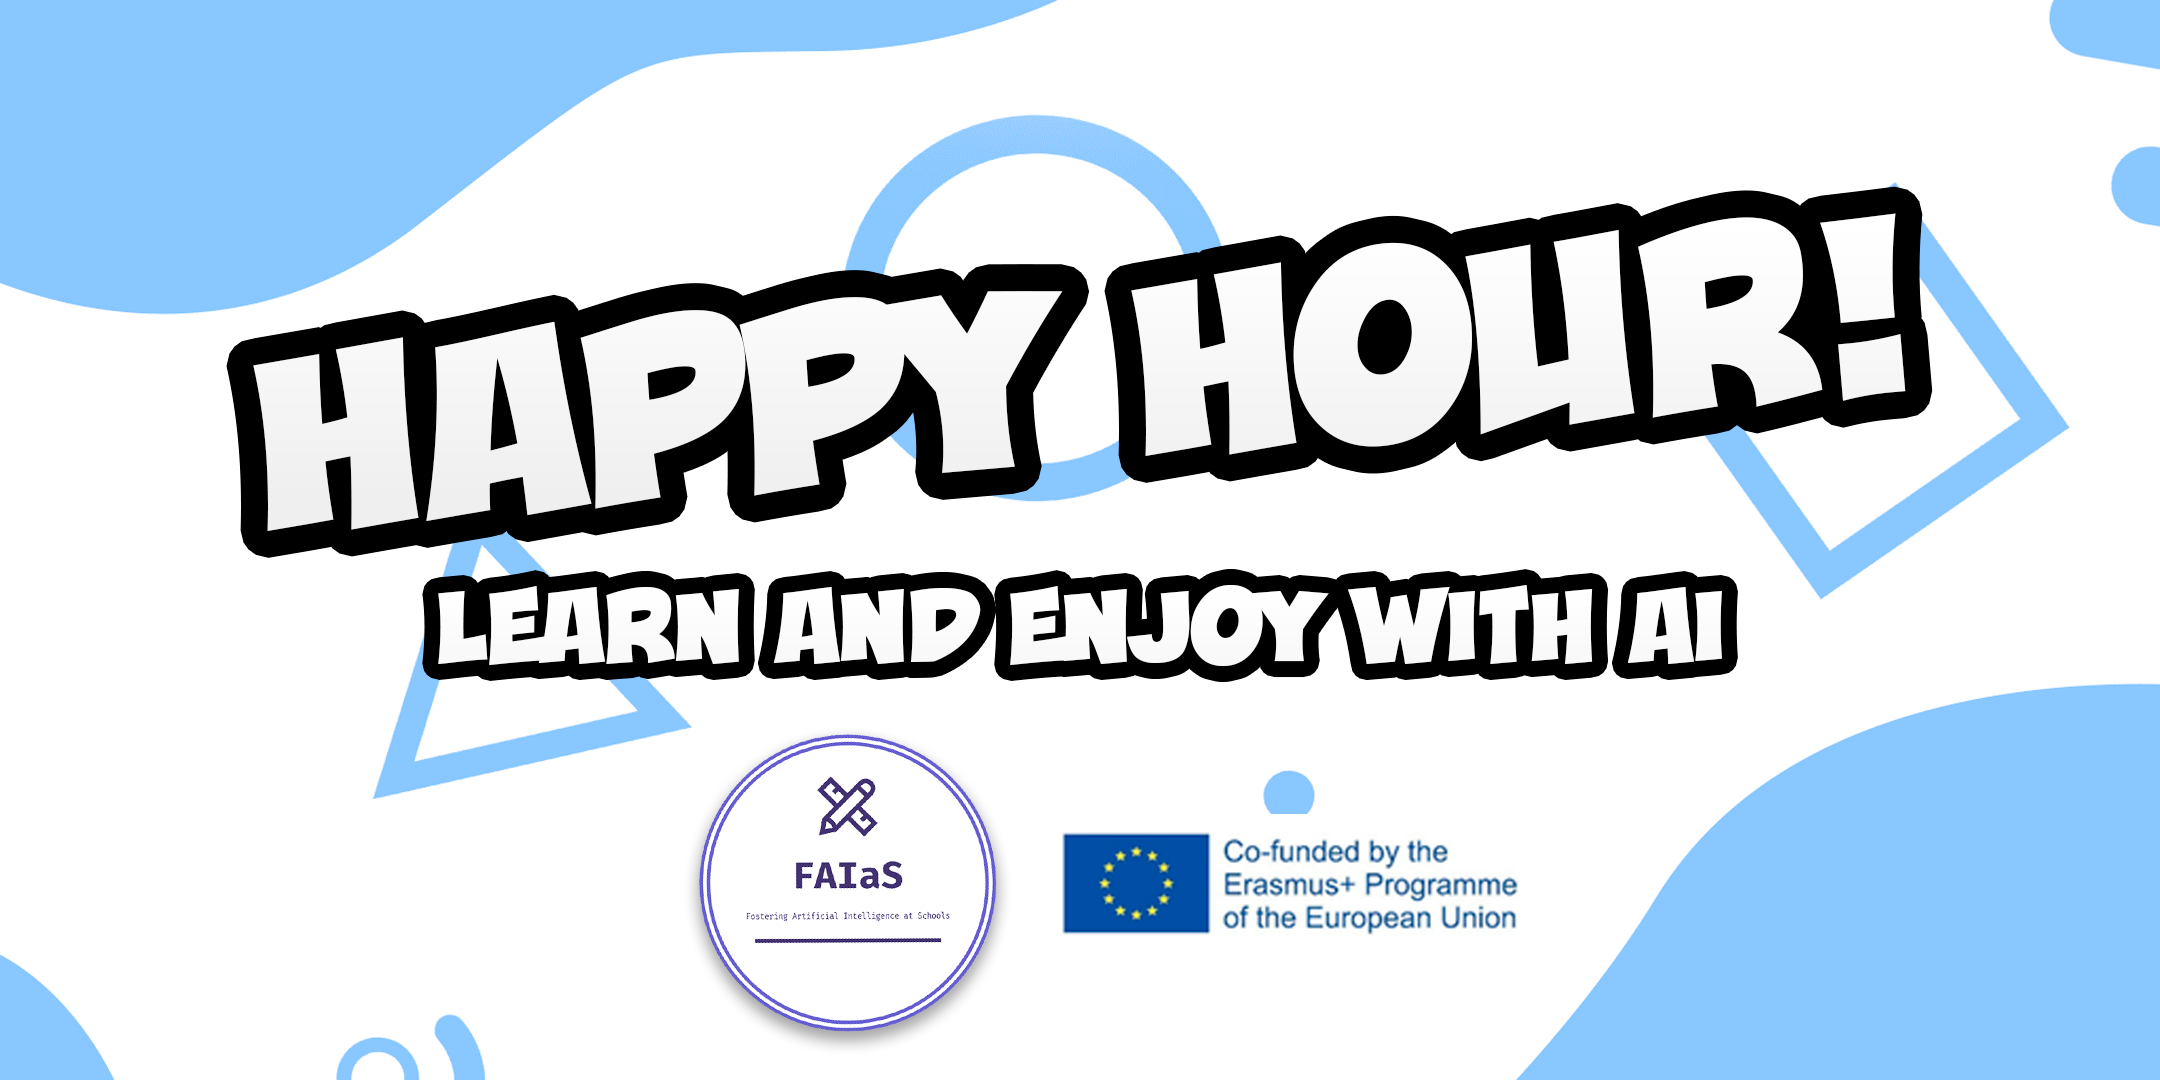
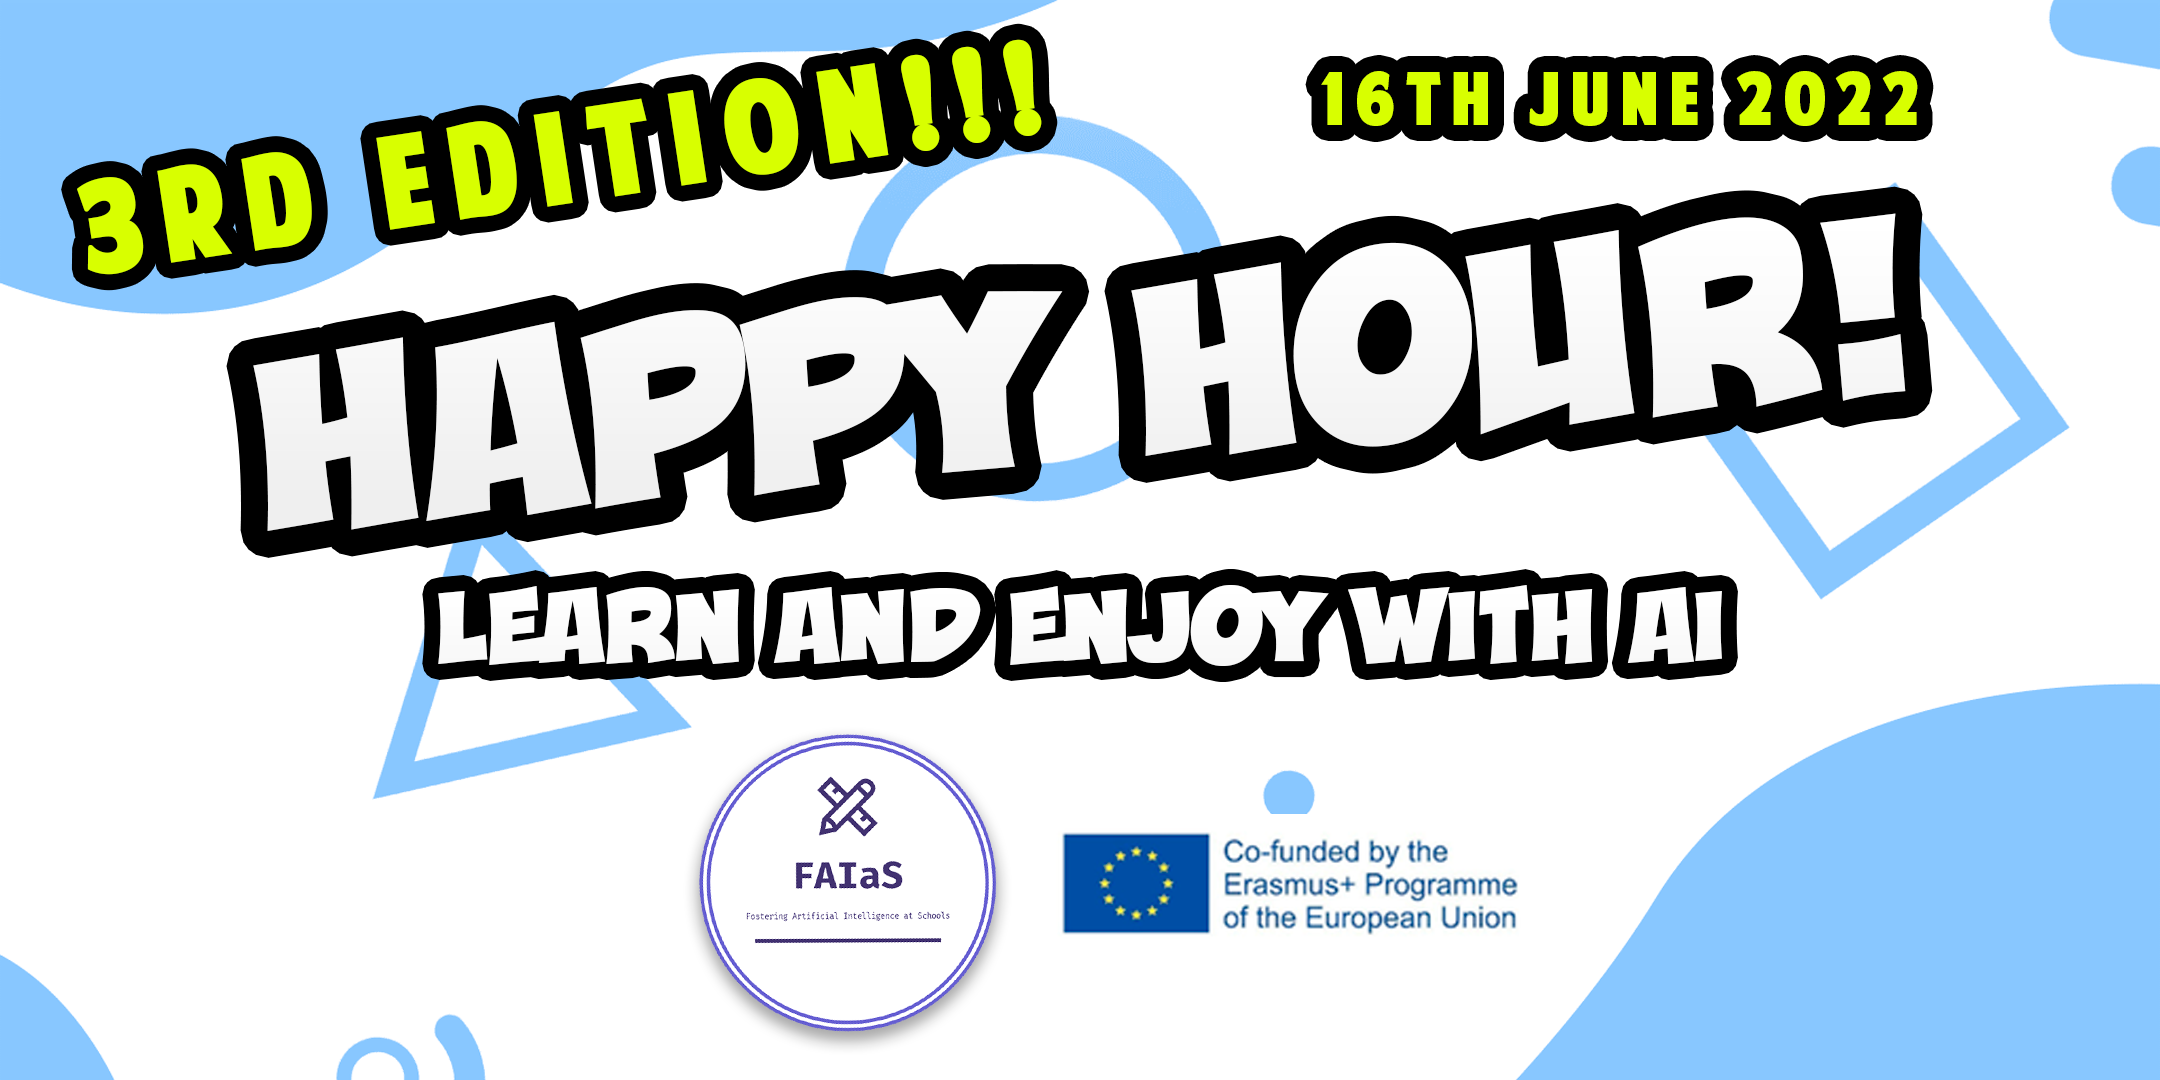
happyhour3

Changed region(s): [[0.031, 0.0, 0.4963, 0.275], [0.5894, 0.0306, 0.8995, 0.1528]]

diff --git a/docs/post/happy_hour_3_announce/index.html b/docs/post/happy_hour_3_announce/index.html
@@ -323,29 +323,29 @@
 
   <div class="article-container">
 
-<h2 id="happy-hour-2-">HAPPY HOUR #2!</h2>
-<p>We are delighted to announce that the second Happy Hour will take place at the end of February!</p>
+<h2 id="happy-hour-3-">HAPPY HOUR #3!</h2>
 <br>
-<p>The Happy Hour is a live event where you will have the opportunity to interact in a dynamic and fun way with the different speakers and guests. Various topics on Artificial Intelligence and Machine Learning are covered in short sections of about 5 minutes each. </p>
-<p>You can watch our first Happy Hour <a href="https://www.youtube.com/watch?v=dNqTIVoByWM" target='_blank'><strong>here!</strong></a></p>
+<p>This 16th of June, will take take place the third edition of our streaming program &#39;Happy Hour&#39;. After an intense week in our Learning Teaching Training Activity (LTTA) hosted in the city of Braga (Portugal). In this edition, will talk about some interesting topics and we share our conclusions and experiences about the LTTA event. Thanks to all the participants of the LTTA for attending the event and making these days an unforgettable experience.</p>
 <br>
-<p>To be able to participate you only need to register in our <a href="https://www.eventbrite.es/e/254791386897" target='_blank'><strong>Eventbrite event</strong></a>, and one day before the Happy Hour, you will receive an email with the password to access the streaming on the BigBlueButton platform. <a href="https://www.eventbrite.es/e/254791386897" target='_blank'><strong>Register here!</strong></a></p>
+<p>What is Happy Hour? The Happy Hour is a live event where you will have the opportunity to interact in a dynamic and fun way with the different speakers and guests. Various topics on Artificial Intelligence and Machine Learning are covered in short sections of about 5 minutes each.</p>
+<br>
+<p>You can watch our 2 previous editions of Happy Hour <a href="https://www.youtube.com/watch?v=dNqTIVoByWM&amp;list=PLaJK9Y94GVlO-glIX_KieSgQy51bJh0wQ"><strong>here!</strong></a></p>
+<br>
+<p>To be able to participate you only need to register in our <a href="https://www.eventbrite.com/e/entradas-faias-happy-hour-3-361096949697"><strong>Eventbrite event</strong></a>, and one day before the Happy Hour, you will receive an email with the password to access the streaming on the BigBlueButton platform. <a href="https://www.eventbrite.com/e/entradas-faias-happy-hour-3-361096949697"><strong>Register here!</strong></a></p>
 <br>
 <p>If you have any questions about the registration process or access to the platform, you can contact us at faias@fosteringai.net. This is the schedule of the event:</p>
 <ul>
-<li>Discovering our unconscious bias</li>
-<li>Learn to use LearningML with text!</li>
-<li>Mini-interviews with teachers about Artificial Intelligence</li>
+<li>FAIAS team member short video about AI</li>
+<li>Learn to use LearningML with datasets example</li>
+<li>AI papers recommendations</li>
 <li>The opinion of the AI expert</li>
 <li>Teachers speak: their classroom experience with LearningML</li>
-<li>Become a virtual ambassador! What are our LTTAs? </li>
 </ul>
 <br>
-<p>You can download the schedule of the event <a href="https://fosteringai.github.io/post/happy_hour_2_announce/schedule_happy_hour_2.pdf" target='_blank'><strong>here!</strong></a>. And we only have to invite you to follow us on our social networks and subscribe to our newsletter:</p>
-<ul>
-<li><a href="https://twitter.com/fosteringai" target='_blank'><strong>Twitter</strong></a></li>
-<li><a href="http://eepurl.com/hLgTQz" target='_blank'><strong>Newsletter</strong></a></li>
-</ul>
+<p>We only have to invite you to follow us on our social networks and subscribe to our newsletter:</p>
+<br>
+<p>-<a href="https://twitter.com/fosteringai">**Twitter</a>
+-<a href="http://eepurl.com/hLgTQz"><strong>Newsletter</strong></a></p>
 <br>
 <p>We hope to see you and enjoy your company!</p>
 

diff --git a/docs/post/happy_hour_3_announce/happy_hour_2.md b/docs/post/happy_hour_3_announce/happy_hour_2.md
@@ -1,58 +1,28 @@
----
-authors:
-- admin
-#- 吳恩達
-categories:
-#- Demo
-#- 教程
-date: "2021-11-18T00:00:00Z"
-draft: false
-featured: false
-image:
-#  caption: 'Image credit: [**Unsplash**](https://unsplash.com/photos/CpkOjOcXdUY)'
-  focal_point: ""
-  placement: 2
-  preview_only: false
-lastmod: "2021-11-18T00:00:00Z"
-projects: []
-subtitle: "The inclusion guide"
-#summary: "Welcome \U0001F44B We know that first impressions are important, so we've
-#  populated your new site with some initial content to help you get familiar with
-#  everything in no time."
-tags:
-#- Academic
-#- 开源
-title: For a better understanding of what Artificial Intelligence is and how it can be used (or misused) in education and training
-
----
-
 ![](banner_happy_hour.png)
 
-## HAPPY HOUR #2!
+## HAPPY HOUR #3!
 
-We are delighted to announce that the second Happy Hour will take place at the end of February!
+This 16th of June, will take take place the third edition of our streaming program 'Happy Hour'. After an intense week in our Learning Teaching Training Activity (LTTA) hosted in the city of Braga (Portugal). In this edition, will talk about some interesting topics and we share our conclusions and experiences about the LTTA event. Thanks to all the participants of the LTTA for attending the event and making these days an unforgettable experience.
 
-The Happy Hour is a live event where you will have the opportunity to interact in a dynamic and fun way with the different speakers and guests. Various topics on Artificial Intelligence and Machine Learning are covered in short sections of about 5 minutes each. 
+What is Happy Hour? The Happy Hour is a live event where you will have the opportunity to interact in a dynamic and fun way with the different speakers and guests. Various topics on Artificial Intelligence and Machine Learning are covered in short sections of about 5 minutes each.
 
-You can watch our first Happy Hour [**here!**](https://www.youtube.com/watch?v=dNqTIVoByWM)
-To be able to participate you only need to register in our [**Eventbrite event**](https://www.eventbrite.es/e/254791386897), and one day before the Happy Hour, you will receive an email with the password to access the streaming on the BigBlueButton platform. [**Register here!**](https://www.eventbrite.es/e/254791386897)
+You can watch our 2 previous editions of Happy Hour [**here!**](https://www.youtube.com/watch?v=dNqTIVoByWM&list=PLaJK9Y94GVlO-glIX_KieSgQy51bJh0wQ)
+To be able to participate you only need to register in our [**Eventbrite event**](https://www.eventbrite.com/e/entradas-faias-happy-hour-3-361096949697), and one day before the Happy Hour, you will receive an email with the password to access the streaming on the BigBlueButton platform. [**Register here!**](https://www.eventbrite.com/e/entradas-faias-happy-hour-3-361096949697)
 
 If you have any questions about the registration process or access to the platform, you can contact us at faias@fosteringai.net. This is the schedule of the event:
 
-- Discovering our unconscious bias
-- Learn to use LearningML with text!
-- Mini-interviews with teachers about Artificial Intelligence
+- FAIAS team member short video about AI
+- Learn to use LearningML with datasets example
+- AI papers recommendations
 - The opinion of the AI expert
 - Teachers speak: their classroom experience with LearningML
-- Become a virtual ambassador! What are our LTTAs? 
 
-You can download the schedule of the event [**here!**](https://fosteringai.github.io/post/happy_hour_2_announce/schedule_happy_hour_2.pdf). And we only have to invite you to follow us on our social networks and subscribe to our newsletter:
+We only have to invite you to follow us on our social networks and subscribe to our newsletter:
 
 -[**Twitter](https://twitter.com/fosteringai)
 -[**Newsletter**](http://eepurl.com/hLgTQz)
 
 We hope to see you and enjoy your company!
-
 
 
 ### [📬 Subscribe to our newsletter](http://eepurl.com/hLgTQz) Sing up to receive more information about FAIaS project via email, and you’ll be the first to know about Artificial Intelligence and more.
